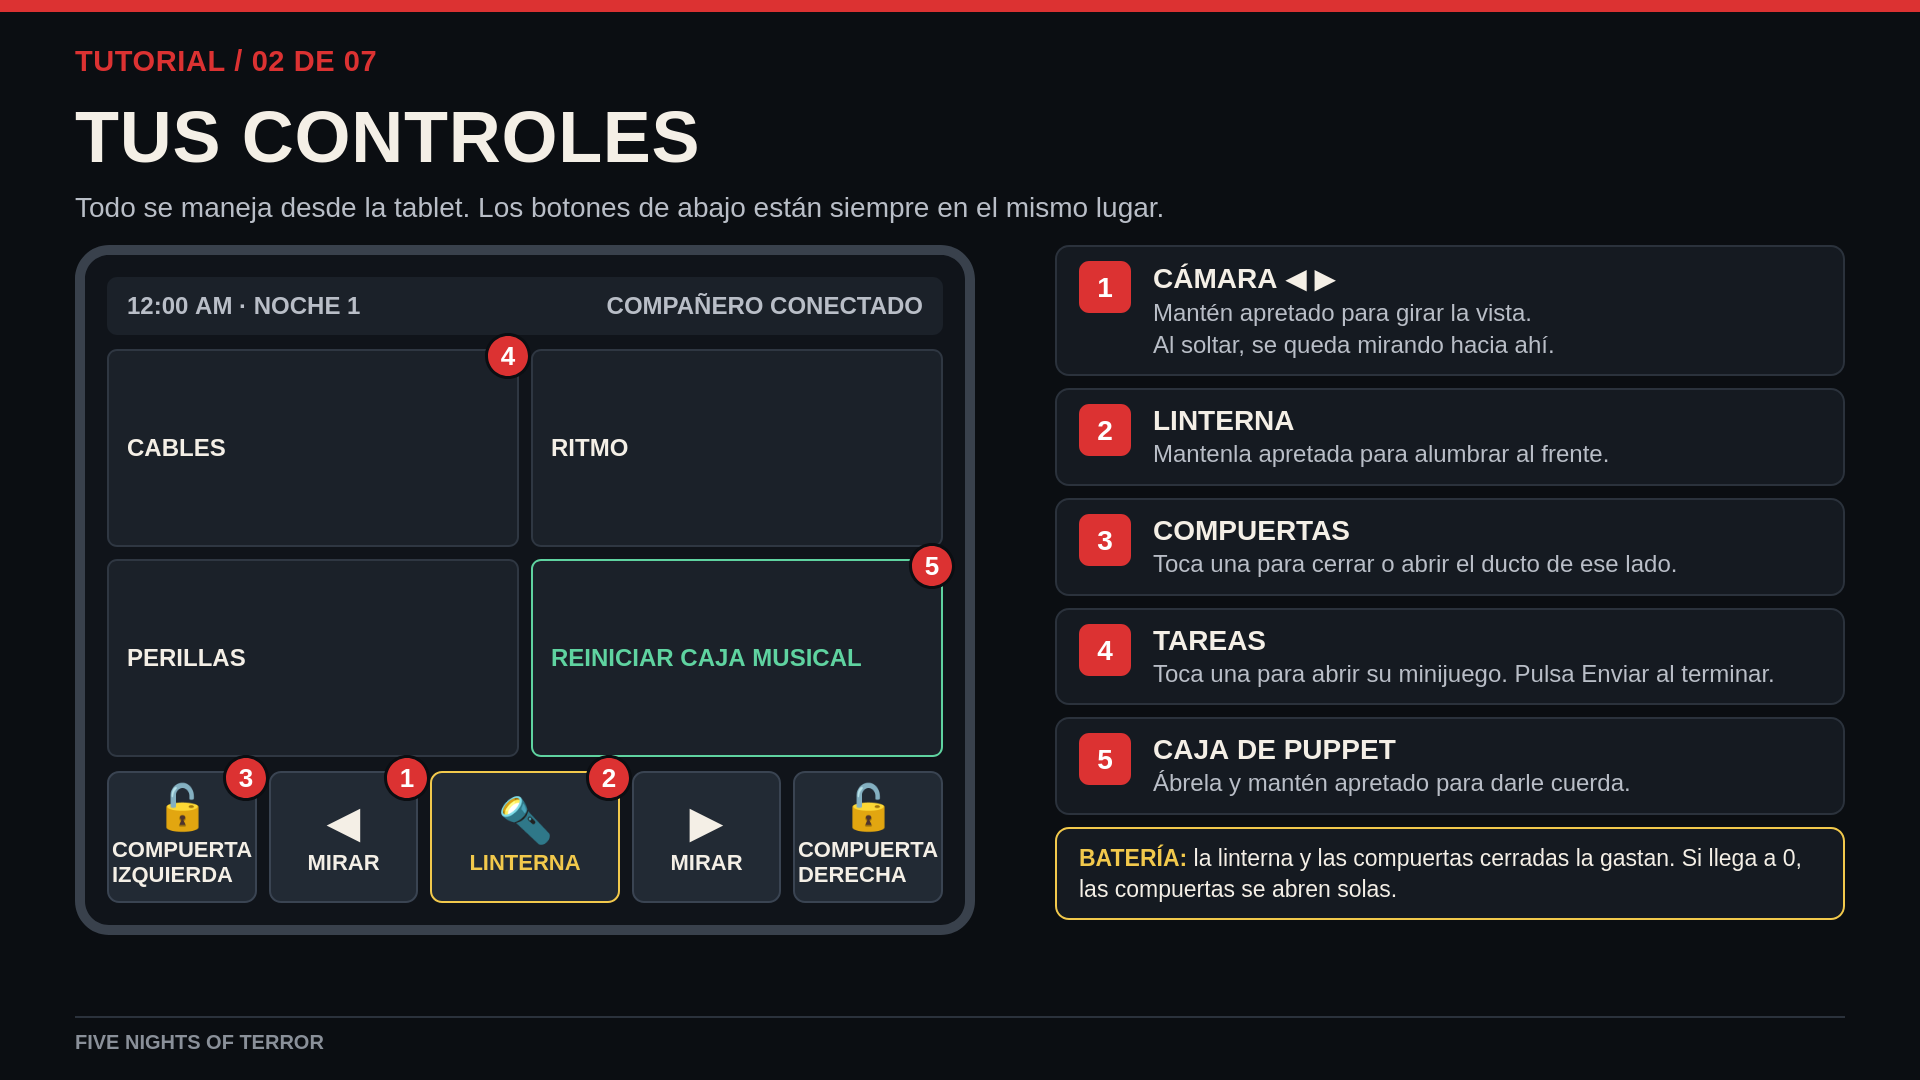
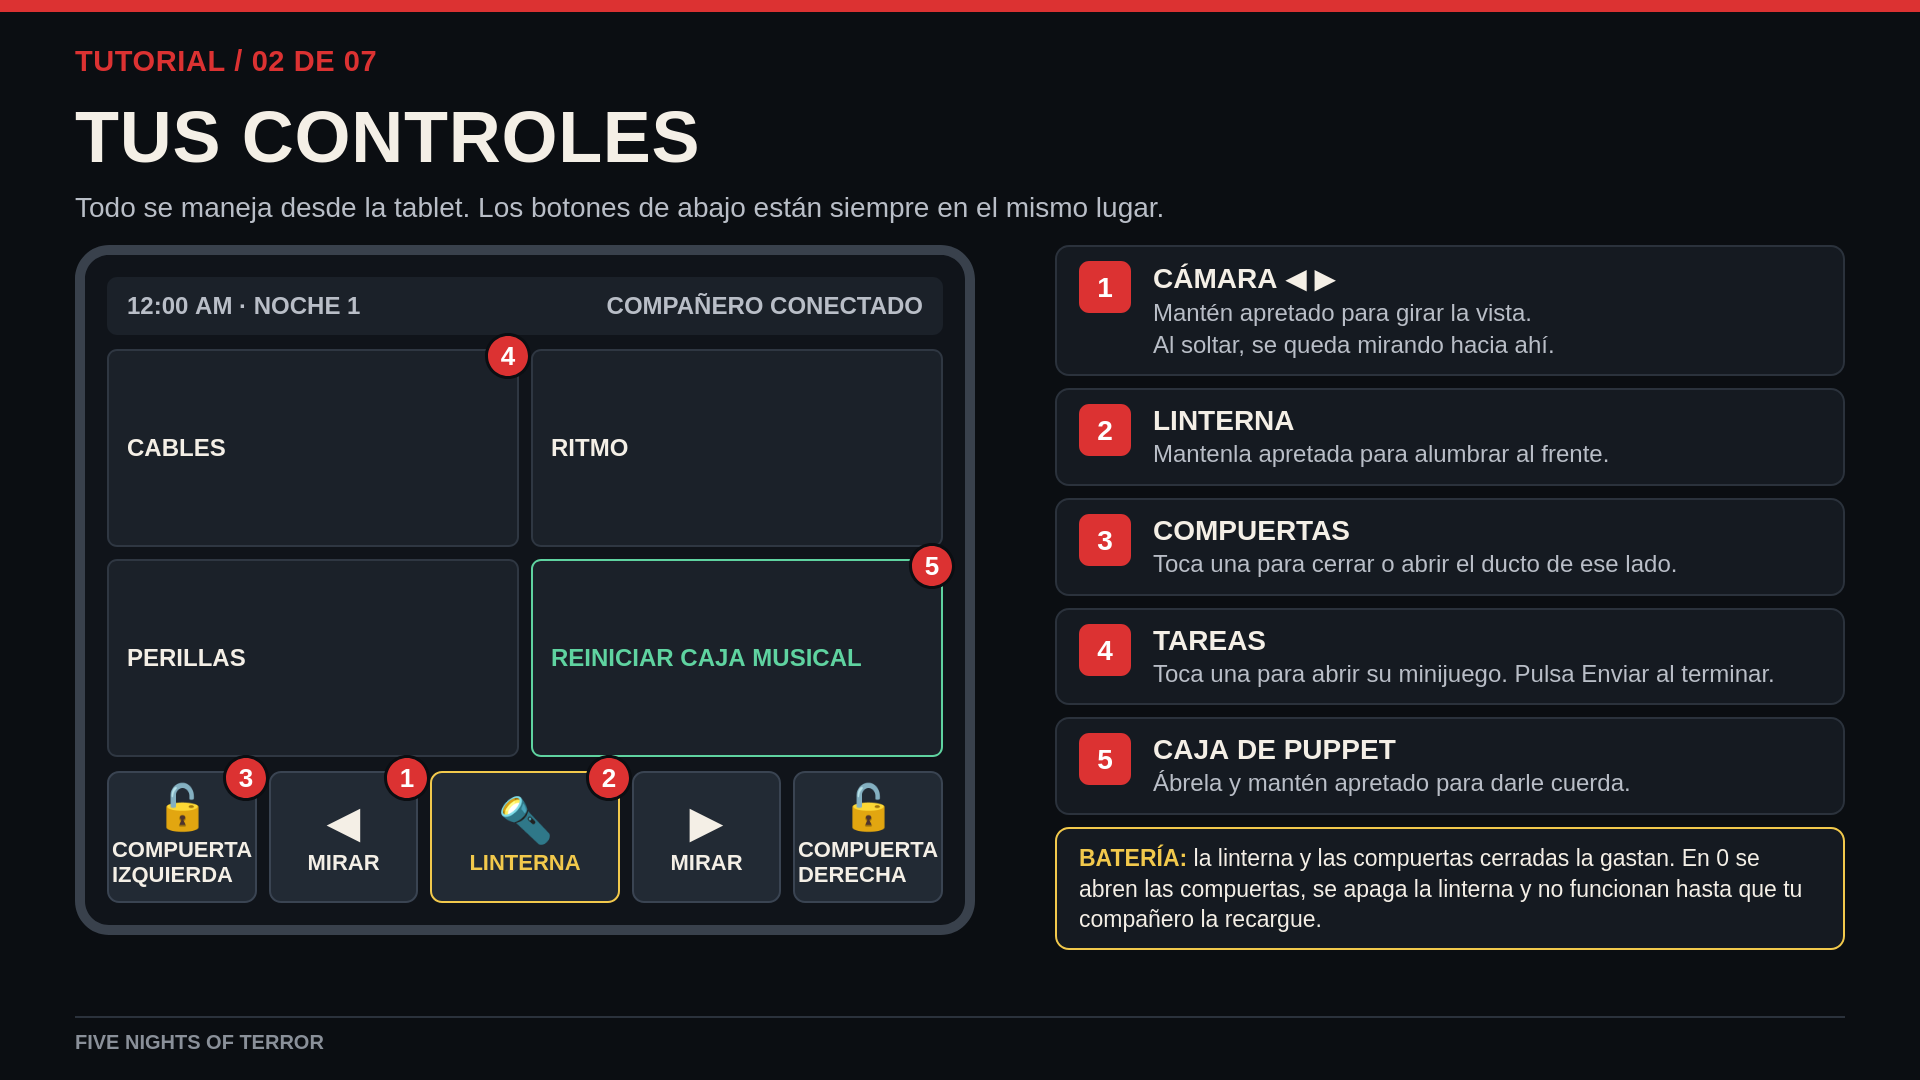
Unity: la batería se gasta más rápido y avisa cuando se acaba
Compuertas cerradas y linterna gastan 3 % por segundo cada una (antes 2;
una compuerta cerrada todo el tiempo dura 33 s). Al llegar a 0 (ya se
abrían las compuertas y se apagaba la linterna) avisa una vez en la PC y
manda efecto «bateria_agotada» a la tablet y al jugador 2. Diapositivas 2
y 3 del tutorial con los números nuevos.

Changed region(s): [[0.5625, 0.7639, 0.9375, 0.8861]]

diff --git a/Unity/Assets/scripts/UnityGameSessionController.cs b/Unity/Assets/scripts/UnityGameSessionController.cs
@@ -1420,7 +1420,7 @@ public class UnityGameSessionController : MonoBehaviour
     private void ActualizarDuctos()
     {
         compuertas.ActualizarLinterna(Time.time);
-        compuertas.Avanzar(Time.deltaTime);
+        if (compuertas.Avanzar(Time.deltaTime)) AvisarBateriaAgotada();
         SemaforoDeDuctos.Luz izquierda = SemaforoDeDuctos.Luz.Verde, derecha = SemaforoDeDuctos.Luz.Verde;
         bool empujaIzquierda = false, empujaDerecha = false;
         foreach (AnimatronicUnityBrain brain in brains)
@@ -1570,6 +1570,23 @@ public class UnityGameSessionController : MonoBehaviour
         avisoDeOperador = texto;
         AmbienteDelJuego.PedirEstatica(Time.time, 0.8f);   // la pantalla «pierde señal» un instante
         avisoDeOperadorHasta = Time.time + 3f;
+    }
+
+    /// La batería llegó a 0: las compuertas ya se abrieron y la linterna se
+    /// apagó (CompuertasDeDuctos.Avanzar), y no se pueden usar hasta que el
+    /// jugador 2 recargue con un cálculo o empiece otra noche. Se avisa en la
+    /// PC, en la tablet (con vibración) y al jugador 2, una sola vez.
+    private void AvisarBateriaAgotada()
+    {
+        const string aviso = "Sin batería: se abrieron las compuertas y se apagó la linterna";
+        AvisarAlJugador1(aviso);
+        Send(new EfectoMessage
+        {
+            animatronic = string.Empty,
+            tipo = "bateria_agotada",
+            segundos = 0f,
+            message = aviso
+        });
     }
 
     /// El jugador 1 debe saber si tiene compañero: con él, Freddy y Vixy

diff --git a/Unity/Assets/scripts/CompuertasDeDuctos.cs b/Unity/Assets/scripts/CompuertasDeDuctos.cs
@@ -18,14 +18,15 @@ using System;
 public class CompuertasDeDuctos
 {
     public const float BateriaInicial = 100f;
-    /// Por cada compuerta cerrada: una sola cerrada todo el tiempo dura 50 s, y
+    /// Por cada compuerta cerrada: una sola cerrada todo el tiempo dura 33 s, y
     /// una noche dura de 120 a 165 s, así que no alcanza para tenerlas siempre
-    /// cerradas: hay que cerrarlas cuando el semáforo está en rojo.
-    public const float ConsumoPorSegundo = 2f;
+    /// cerradas: hay que cerrarlas cuando el semáforo está en rojo. (2026-11-17:
+    /// subió de 2 a 3 % por segundo, a pedido del usuario: se gastaba muy lento.)
+    public const float ConsumoPorSegundo = 3f;
     /// Lo que suma un cálculo bien resuelto del jugador 2.
     public const float RecargaPorCalculo = 20f;
     /// La linterna prendida gasta lo mismo que una compuerta cerrada.
-    public const float ConsumoDeLinterna = 2f;
+    public const float ConsumoDeLinterna = 3f;
     public const float SegundosSinOrdenParaApagar = 0.5f;
 
     private bool cerradaIzquierda;
